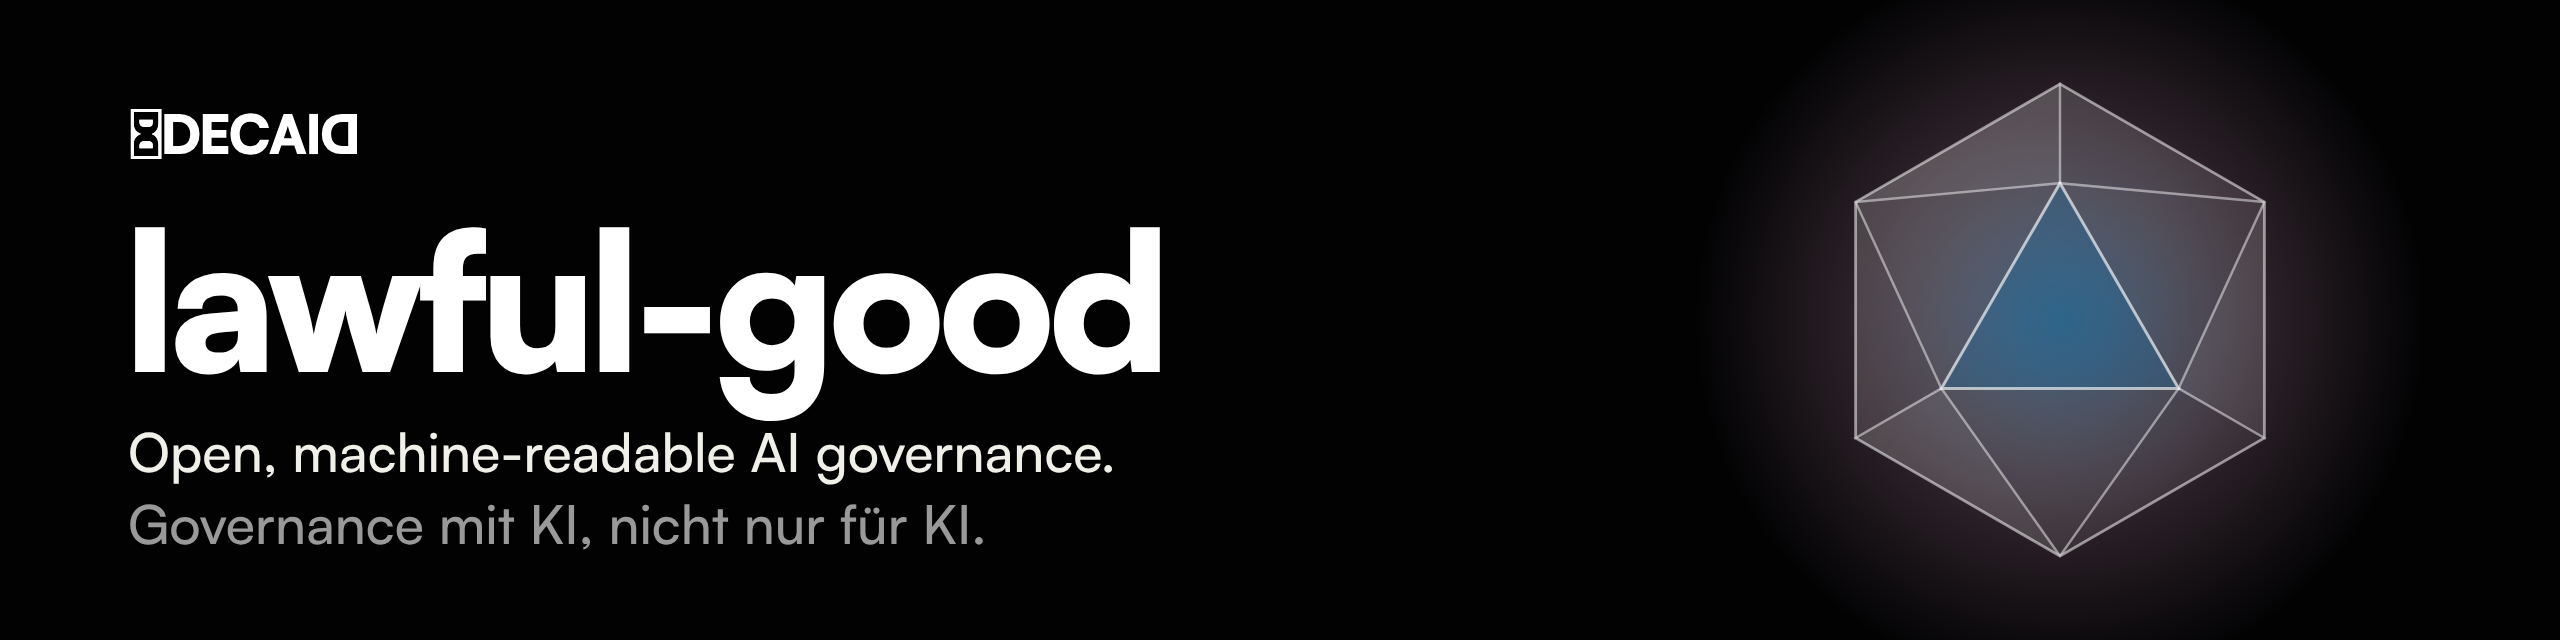
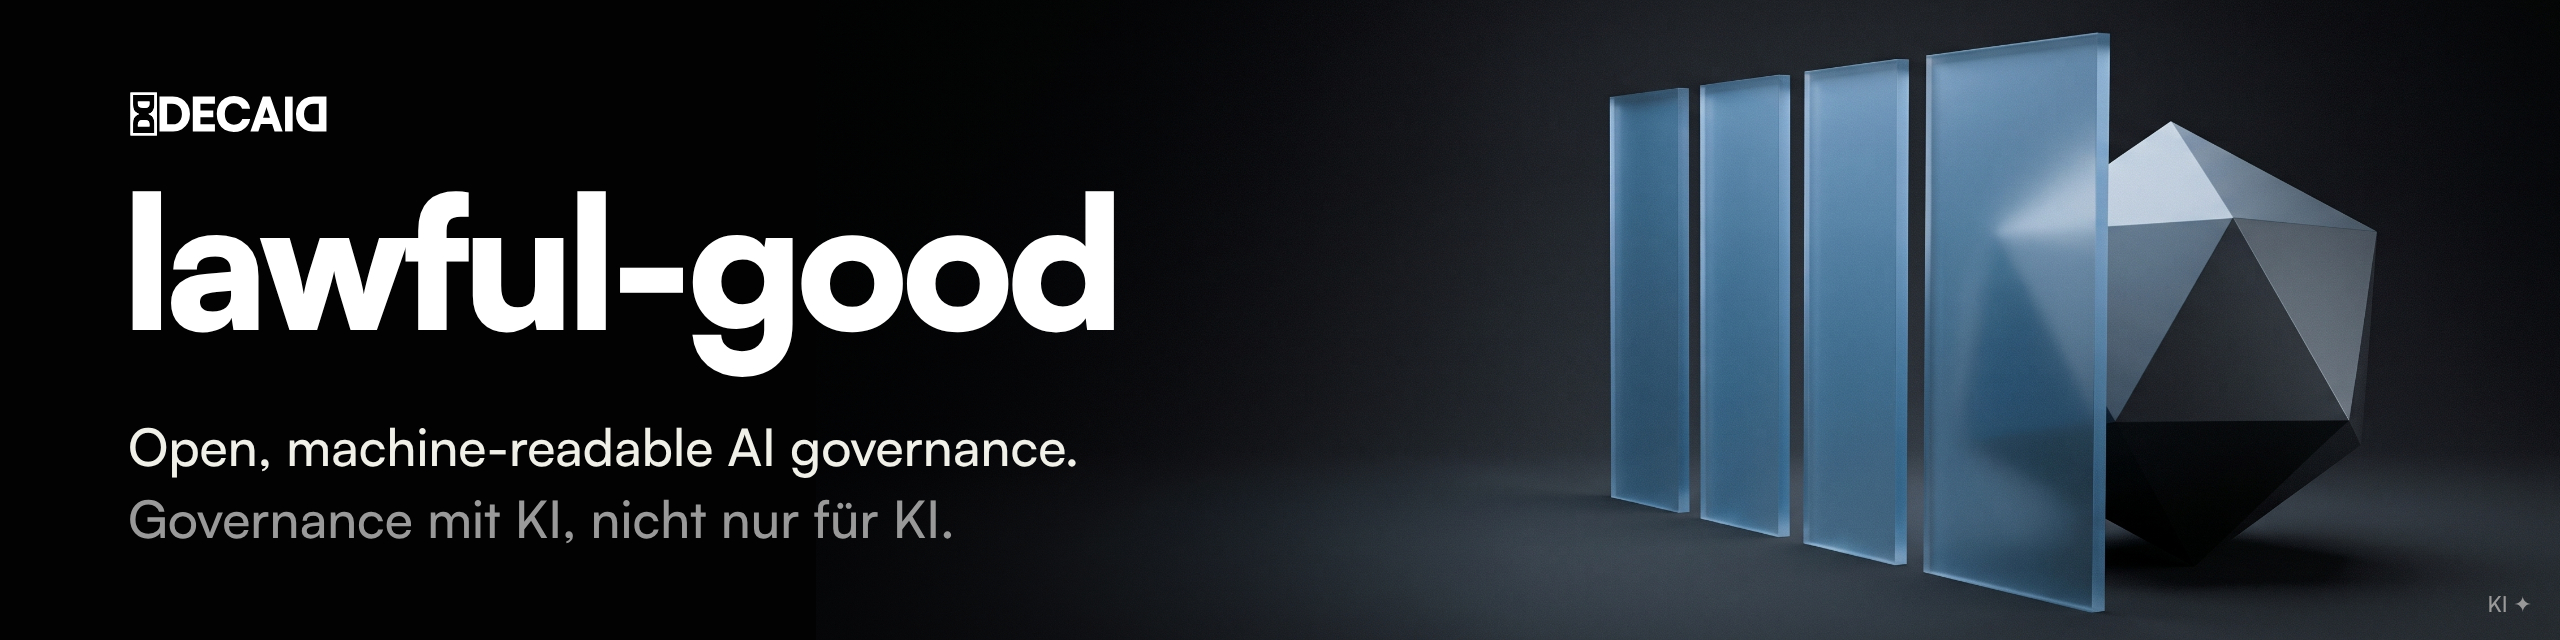
Use Prismatic renders for README header and social preview
Header and social preview now built on Markus' Prismatic renders with
KI label and IPTC trainedAlgorithmicMedia. Vector banner sources
replaced by assets/source/banner/.

Claude-Session: https://claude.ai/code/session_01XKhe1zorHThDJCsk5TrPXe

diff --git a/assets/source/banner/readme-header.html b/assets/source/banner/readme-header.html
@@ -1,0 +1,24 @@
+<!doctype html>
+<!-- decaid-profil: web -->
+<html lang="de"><head><meta charset="utf-8"><title>lawful-good README-Header</title>
+<style>
+@font-face{font-family:Satoshi;font-weight:500;src:url(satoshi-500.woff2) format('woff2')}
+@font-face{font-family:Satoshi;font-weight:700;src:url(satoshi-700.woff2) format('woff2')}
+@font-face{font-family:Satoshi;font-weight:900;src:url(satoshi-900.woff2) format('woff2')}
+html,body{margin:0;background:#020203}
+body{font-synthesis:none}
+.b{position:relative;width:1280px;height:320px;overflow:hidden;background:#020203 url(hd_a.jpg) no-repeat;
+   background-size:auto 380px;background-position:right -24px center;font-family:Satoshi,sans-serif;color:#ffffff}
+.b::before{content:"";position:absolute;inset:0;background:linear-gradient(90deg,#020203 22%,transparent 60%)}
+.logo{position:absolute;left:64px;top:44px;height:26px}
+h1{position:absolute;left:61px;top:84px;margin:0;font-weight:900;font-size:92px;letter-spacing:-.04em;line-height:1}
+.s1,.s2{position:absolute;left:64px;font-weight:500;font-size:26px;margin:0}
+.s1{top:206px;color:#f0efe8}.s2{top:242px;color:#999999}
+.ki{position:absolute;right:14px;bottom:10px;font-weight:500;font-size:11px;color:#999999}
+</style></head><body>
+<div class="b"><img class="logo" src="logo-weiss.svg" alt="DECAID">
+<h1>lawful-good</h1>
+<p class="s1">Open, machine-readable AI governance.</p>
+<p class="s2">Governance mit KI, nicht nur für KI.</p>
+<span class="ki">KI ✦</span></div>
+</body></html>

diff --git a/assets/source/banner/render-header.js b/assets/source/banner/render-header.js
@@ -1,0 +1,5 @@
+const { chromium } = require('playwright'); const path = require('path');
+(async () => { const b = await chromium.launch();
+  const p = await b.newPage({ viewport: { width: 1280, height: 320 }, deviceScaleFactor: 2 });
+  await p.goto('file://' + path.resolve(process.argv[2])); await p.waitForTimeout(500);
+  await p.screenshot({ path: process.argv[3], clip: { x: 0, y: 0, width: 1280, height: 320 } }); await b.close(); })();

diff --git a/assets/source/build.py b/assets/source/build.py
@@ -196,8 +196,7 @@ def diagram(lang, theme):
     s.append('</svg>\n')
     (OUT/f"schaubild-{lang}-{theme}.svg").write_text("".join(s), "utf-8")
 
-banner(1280, 640, "social-preview", flat=False)
-banner(1280, 320, "readme-header", flat=True)
+# Banner: see banner/ (Prismatic renders). The vector banner functions above are kept for reference.
 for lang in ("de", "en"):
     for th in ("light", "dark"):
         diagram(lang, th)

diff --git a/assets/source/banner/README.md b/assets/source/banner/README.md
@@ -1,0 +1,10 @@
+# Banner sources
+
+- `social-preview.png` (1280 × 640) and the README header are built on DECAID Prismatic renders
+  (`hd_a.jpg`, `sp_b.jpg`, AI-generated). Both images carry the label "KI ✦" and the IPTC value
+  `trainedAlgorithmicMedia`.
+- README header: `readme-header.html` (1280 × 320), rendered at 2x with
+  `node render-header.js readme-header.html ../../readme-header@2x.png` (Playwright).
+  Needs Satoshi 500/700/900 as `satoshi-<weight>.woff2` next to the HTML (fontshare.com,
+  not included here).
+- The diagrams are built by `../build.py` and `../render.js`.

diff --git a/README.md b/README.md
@@ -1,4 +1,4 @@
-<p align="center"><img src="assets/readme-header@2x.png" width="100%" alt="lawful-good: open, machine-readable AI governance by DECAID"></p>
+<p align="center"><img src="assets/readme-header@2x.png" width="100%" alt="lawful-good: open, machine-readable AI governance by DECAID (KI-generiertes Bild)"></p>
 
 # lawful-good
 
